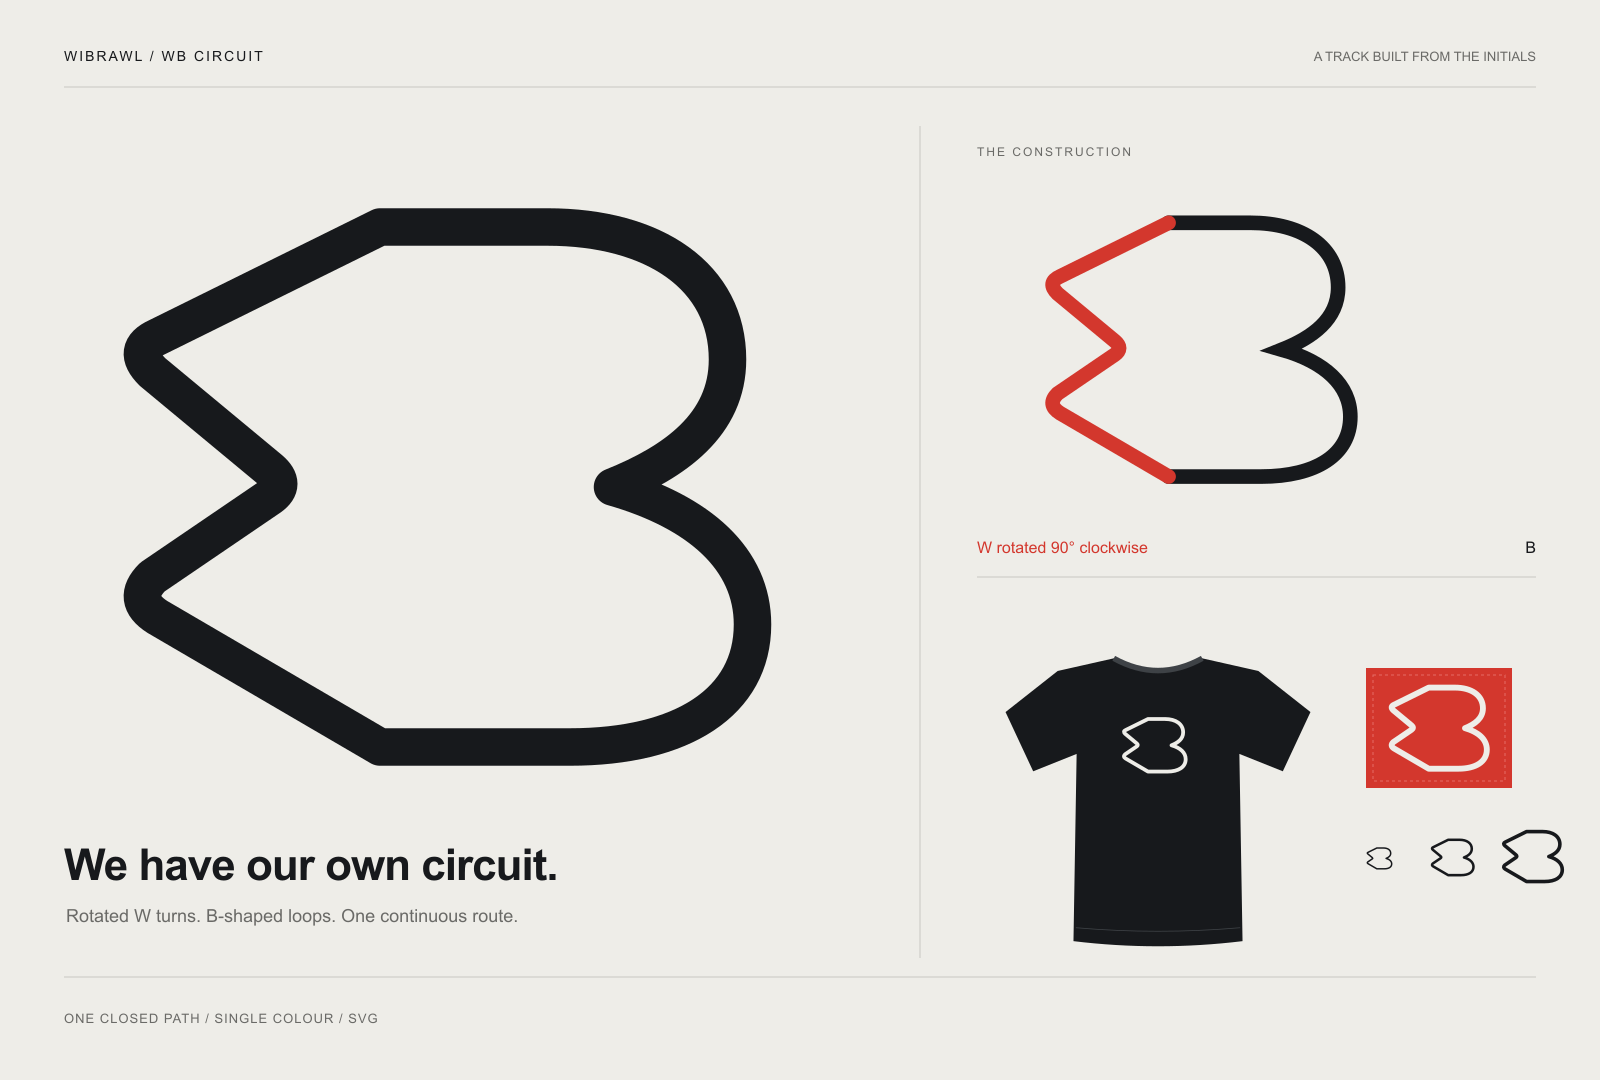
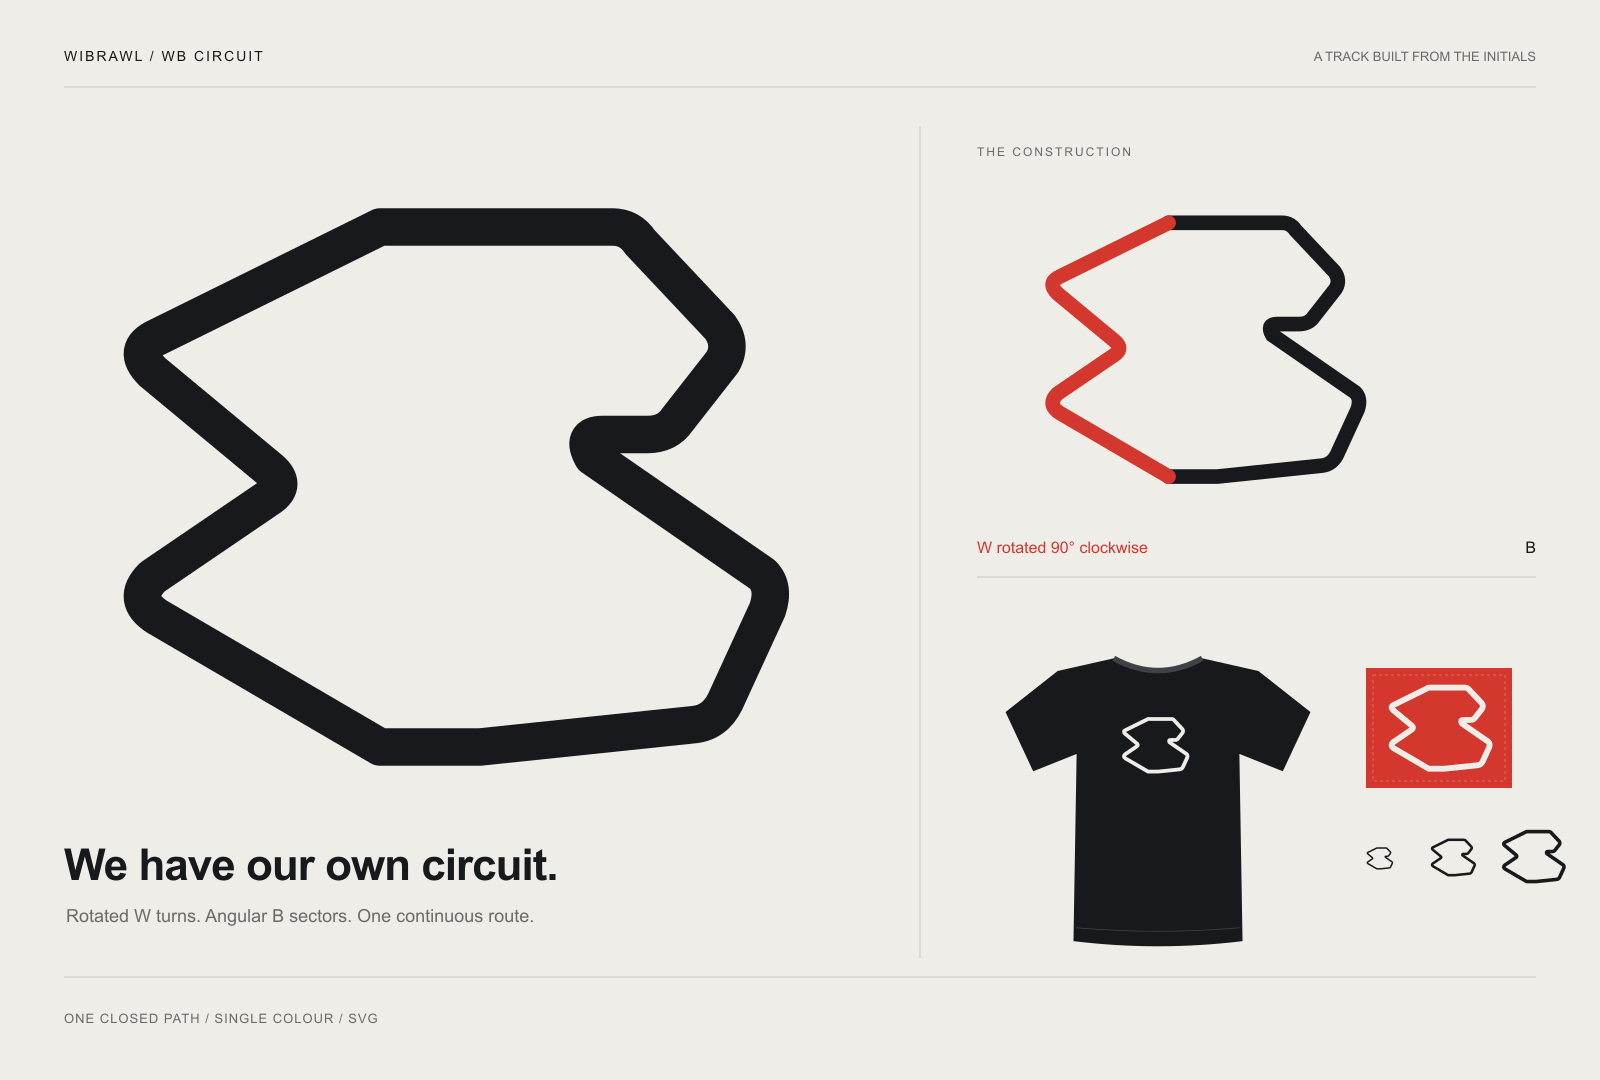
Replace rounded WB circuit lobes with asymmetric angular sectors

diff --git a/design/wibrawl-circuit/README.md b/design/wibrawl-circuit/README.md
@@ -1,6 +1,6 @@
 # Wibrawl — WB Circuit
 
-A racing circuit built from WB. The W is rotated 90 degrees clockwise and supplies the left-side chicanes; B supplies the two right-side lobes. Together they form one closed route without crossings or branch junctions.
+A racing circuit built from WB. The W is rotated 90 degrees clockwise and supplies the left-side chicanes; an asymmetric angular B supplies the right-side sectors. Together they form one closed route without crossings or branch junctions. The revised B uses unequal lengths, clipped corners and straights instead of rounded lobes.
 
 The geometry is custom-drawn from the initials, not traced from an existing racing venue. No racing-series logo or wordmark appears in the artwork.
 
@@ -9,8 +9,10 @@ The geometry is custom-drawn from the initials, not traced from an existing raci
 - `wibrawl-circuit.svg`: single-colour ink master
 - `wibrawl-circuit-paper.svg`: light version
 - `wibrawl-circuit-red.svg`: optional red version
+- `wibrawl-circuit-offset.svg`: alternative B geometry with more staggered corners
 - `wibrawl-circuit-track.svg`: larger illustration with red-and-white edging and a start/finish stripe
 - `circuit-preview.png`: concept, construction, tee and label studies
+- `b-rework-comparison.png`: Cutback and Offset B routes at the same scale
 - `logo-preview.png`: enlarged master
 - `track-preview.png`: enlarged road illustration
 - `applications.png`: reversals and 16–64 px studies
